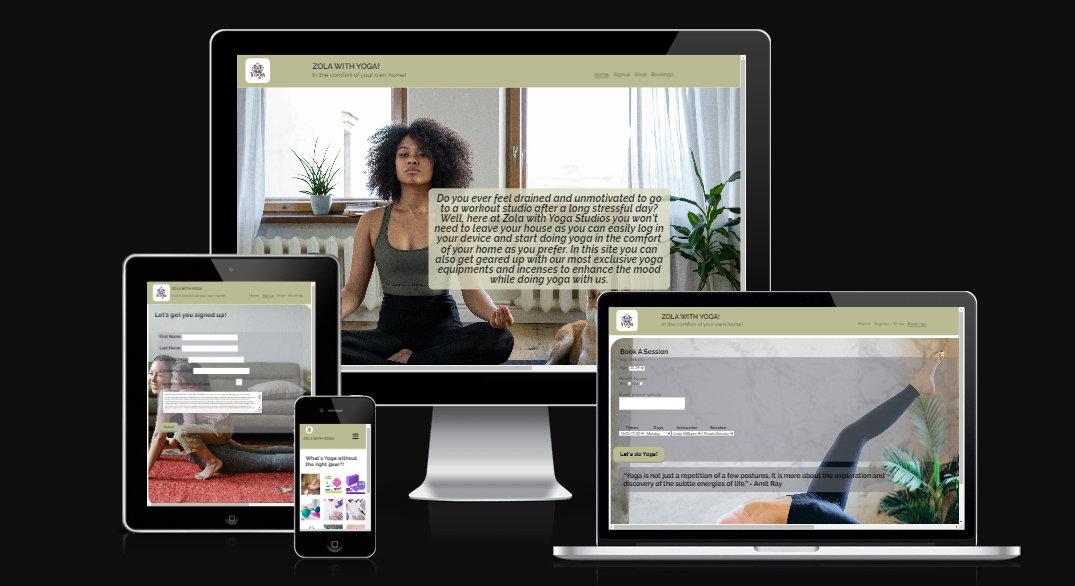
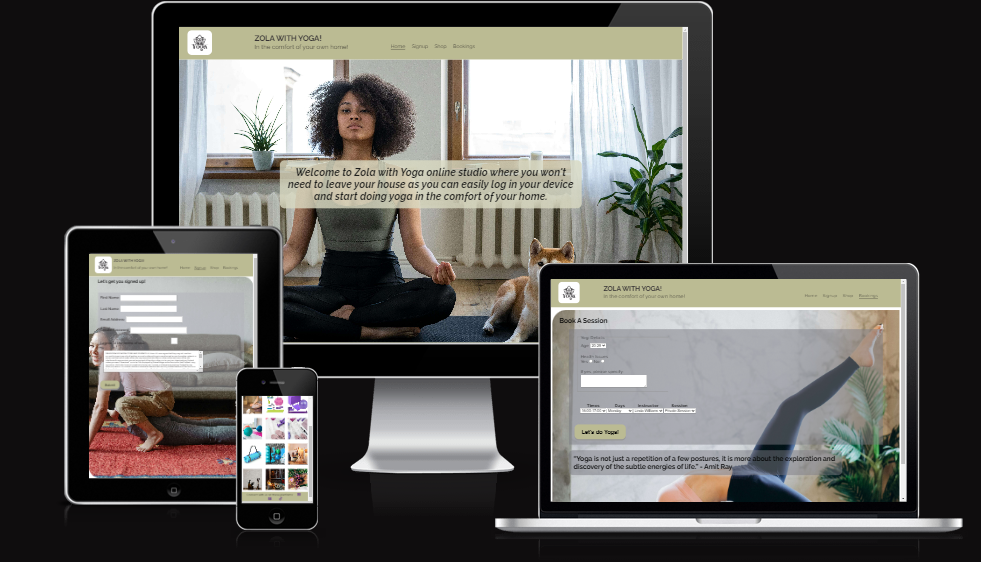
Add hover font weight to nav-bar list

diff --git a/signup.html b/signup.html
@@ -63,38 +63,13 @@
                     attempt to gain unauthorized access to another network or server, and
                     that not all areas of the site may be available to them or other
                     authorized users of the site.
-                    interfere with anyone else’s use and enjoyment of the site or other similar services.
-                    download any Content unless you see a “download” or similar link displayed by ZolawithYoga on the Service for that Content.
-                    copy, reproduce, distribute, transmit, broadcast, display, sell,
-                    license, or otherwise exploit any Content for any other purposes or
-                    circumvent, disable or otherwise interfere with security-related
-                    features of the Service or features that prevent or restrict use or
-                    copying of any Content or enforce limitations on use of the Service or
-                    the Content therein, without the prior written consent of
-                    Zola with Yoga or the respective licensors of the Content.
-                    Users who violate systems or network security may incur criminal or civil liability.
-                    All Users acknowledge that through their use of the site, they may
-                    have the opportunities to engage in commercial transactions with other
-                    users and vendors. Each User acknowledges that all transactions relating
-                    to any merchandise or services offered by any party, including, but not
-                    limited to the purchase terms, payment terms, warranties, guarantees,
-                    maintenance and delivery terms relating to such transactions, are agreed
-                    to solely between the seller or purchaser of such merchandize and
-                    services and you. WE MAKE NO WARRANTY REGARDING ANY TRANSACTIONS
+                    WE MAKE NO WARRANTY REGARDING ANY TRANSACTIONS
                     EXECUTED THROUGH, OR IN CONNECTION WITH THIS SITE, AND YOU UNDERSTAND
                     AND AGREE THAT SUCH TRANSACTIONS ARE CONDUCTED ENTIRELY AT YOUR OWN
                     RISK. ANY WARRANTY THAT IS PROVIDED IN CONNECTION WITH ANY PRODUCTS,
                     SERVICES, MATERIALS, OR INFORMATION AVAILABLE ON OR THROUGH THIS SITE
                     FROM A THIRD PARTY IS PROVIDED SOLELY BY SUCH THIRD PARTY, AND NOT BY US
                     OR ANY OTHER OF OUR AFFILIATES.
-                    
-                    Students.
-                    You should be aware that we do not endorse or assume any liability
-                    for any Content uploaded, streamed or displayed by or on behalf of
-                    Instructors or other Students.  We generally do not pre-screen, monitor,
-                    or edit the content posted by users of communications services, chat
-                    rooms, message boards, newsgroups, software libraries, or other
-                    interactive services that may be available on or through this site.
                     
                     Zola with Yoga has no responsibility to you for any injuries or
                     damages that you suffer in connection with the use of the Service, and
@@ -110,20 +85,7 @@
                     Classes, Modifications, and Amendments
                     You agree to accept all of the terms and conditions including
                     the cancellation policy listed in the Service when you agree to book and
-                    pay for a Service on Zola with Yoga.
-                    The Courses offered on Zola with Yoga are offered directly by
-                    the Instructor. Zola with Yoga is not responsible or liable for any
-                    information on its Service listings or profiles.
-                    Zola with Yoga reserves the right to cancel or change any booked Service at any time, for any reason.
-                    Zola with Yoga reserves the right at any time to modify or
-                    discontinue, temporarily or permanently, the Service with or without
-                    notice.
-                    Refund Policy
-                    When a student signs-up for a course, Zola with Yoga charges
-                    their credit card or PayPal account at the time of sign-up to hold their
-                    spot for the course. Students may request a refund within the refund
-                    request time period in accordance with our Refund Policy.
-                    
+                    pay for a Service on Zola with Yoga.                   
                     </p>
                 <br>   
                 <br>

diff --git a/assets/css/style.css b/assets/css/style.css
@@ -56,6 +56,10 @@ h1 {
 .nav-bar>li {
     margin-bottom: 1em;
 }
+.nav-bar>li:hover {
+    font-weight: bold;
+    cursor: pointer;
+}
 
 .active {
     border-bottom: 1px solid #201d1d;
@@ -384,7 +388,7 @@ footer>a {
     }
 
     .navigation {
-        left: 650px;
+        left: 700px;
         justify-content: space-between;
     }
 
@@ -438,6 +442,9 @@ footer>a {
 /* Larger devices (desktops, 1200px and up) */
 @media screen and (min-width: 1200px) {
     /* Home page style */
+    .navigation {
+        left: 900px;
+    }
     .welcome-message {
         font-size: 2rem;
     }

diff --git a/README.md b/README.md
@@ -55,6 +55,10 @@
 * Add a phone number to connect to WhatsApp.
 
 ## Testing
+My journey through creating this website was not an easy one. I had an idea of what I wanted however the results were not good. I even had to restart the whole website, and went through the lessons once again just so I can have a better understanding of the elements, attributes and so forth.  
+
+The favicon gave me an issue as the files did not upload on my file explorer. I got an error
+![alt text](image-1.png)
 My results from Lighthouse show that less content should be used, and to reduce time spent parsing.
 
 <img src="./README.md_docs/Lighthouse-results.png"> 
@@ -65,9 +69,11 @@ All images used on this project are set as background images, hence why the form
 
 Desktop results look better than mobile results.
 
-The navigation bar have me problems a couple of times. I used this site: [Navigator](https://stackoverflow.com/questions/42095405/logo-and-navigation-bar-inline#:~:text=You%20could%20also%20simply%20put,align%20to%20center%20things%20horizontally.) However along the way it still didn't perform the way I had anticipated, especially the toggle section for small devices. I went throught the Love Running Walkthrough Project and found an easier way of doing it.
+The navigation bar gave me problems a couple of times. I used this site: [Navigator](https://stackoverflow.com/questions/42095405/logo-and-navigation-bar-inline#:~:text=You%20could%20also%20simply%20put,align%20to%20center%20things%20horizontally.) However along the way it still didn't perform the way I had anticipated, especially the toggle section for small devices. I went throught the Love Running Walkthrough Project and found an easier way of doing it.
 
-My project fits on all screens the way I had intended. Although at first it was an issue as there was unwanted space on the side. A Tutor advised that the reason for the space is the navigation width which was set to 100% and positioned to left with another 70% which added the unwanted space. 
+My project fits on all screens the way I had intended. Although at first it was an issue as there was unwanted space on the side. Sean, a Tutor from Code Insititute advised that the reason for the space is the navigation width which was set to 100% and positioned to left with another 70% which added the unwanted space. I then removed the width on larger devices as the effect was affecting only them. Now there is no space, the bakground images cover the whole screen.
+
+<img src="./README.md_docs/Navigation-css.png">
 
 ### Validator Testing
 * HTML
@@ -95,19 +101,14 @@ The live link can be found here - https://hlomphosibeko.github.io/Zola-with-Yoga
 
 ## Credits
 ### Content 
-* The quote used on the bookings page is taken from this site: [Yoga quote]https://www.teganbyoga.com/post/best-yoga-quotes
+* The quote used on the bookings page is taken from this site: [Tegan by yoga]https://www.teganbyoga.com/post/best-yoga-quotes
 * The terms and conditions used on the sign up page are taken from this site: [Terms and conditions](https://yogauonline.com/terms-and-conditions/)
 * I struggled with getting my footer to stick to the bottom of the page, this site helped me: [Footer](https://www.w3schools.com/howto/tryit.asp?filename=tryhow_css_fixed_footer)
 * The style for the submit button found on the sign up and bookings page was found in this site: [Signup W3School](https://www.w3schools.com/css/tryit.asp?filename=trycss_buttons_animate3)
 * The position of which the images on the shop page are placed is found on this website: [Grid container](https://www.shecodes.io/athena/22284-how-to-scale-images-with-different-sizes-in-a-css-grid#:~:text=If%20your%20pictures%20have%20different,resized%20to%20fit%20its%20container.)
 
 
-
-
-
-
 ### Media
-* The images used on this website are taken from various sites: [Yoga Images](https://www.pexels.com/search/yoga/ , [Yoga incense](https://www.pexels.com/search/incense/)
-)
+* The images used on this website are taken from various sites: [Yoga Images](https://www.pexels.com/search/yoga/) , [Yoga incense](https://www.pexels.com/search/incense/)
 * The logo image used is taken from this site: [Yoga Logo](https://www.canva.com/design/play?type=TAB7AVEOUWQ&category=tACZCvjI6mE&locale=de-DE)
-* Sean, a Tutor from Code Institute provided a guide on how to compress images, which was found on this site: [TinyJPG](https://tinyjpg.com/)
+* Oisin, a Tutor from Code Institute provided a guide on how to compress images, which was found on this site: [TinyJPG](https://tinyjpg.com/)
